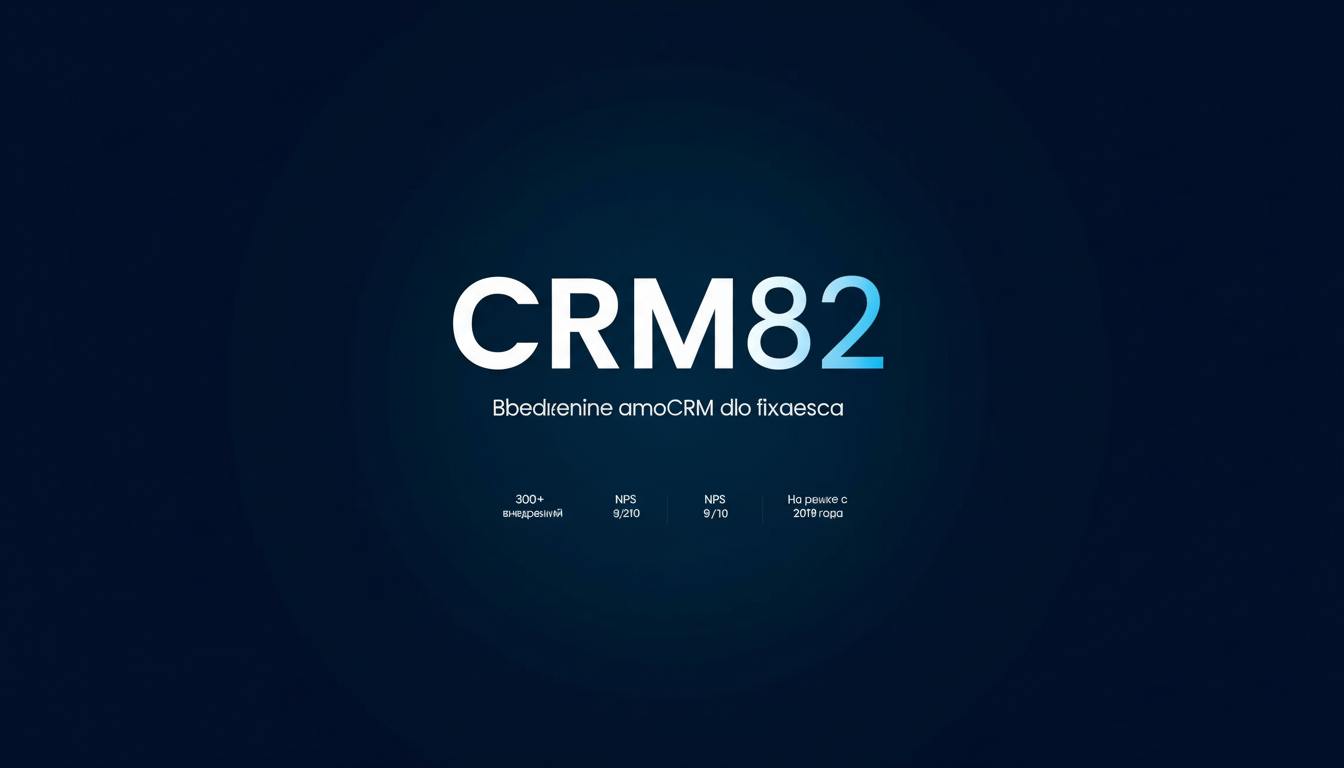
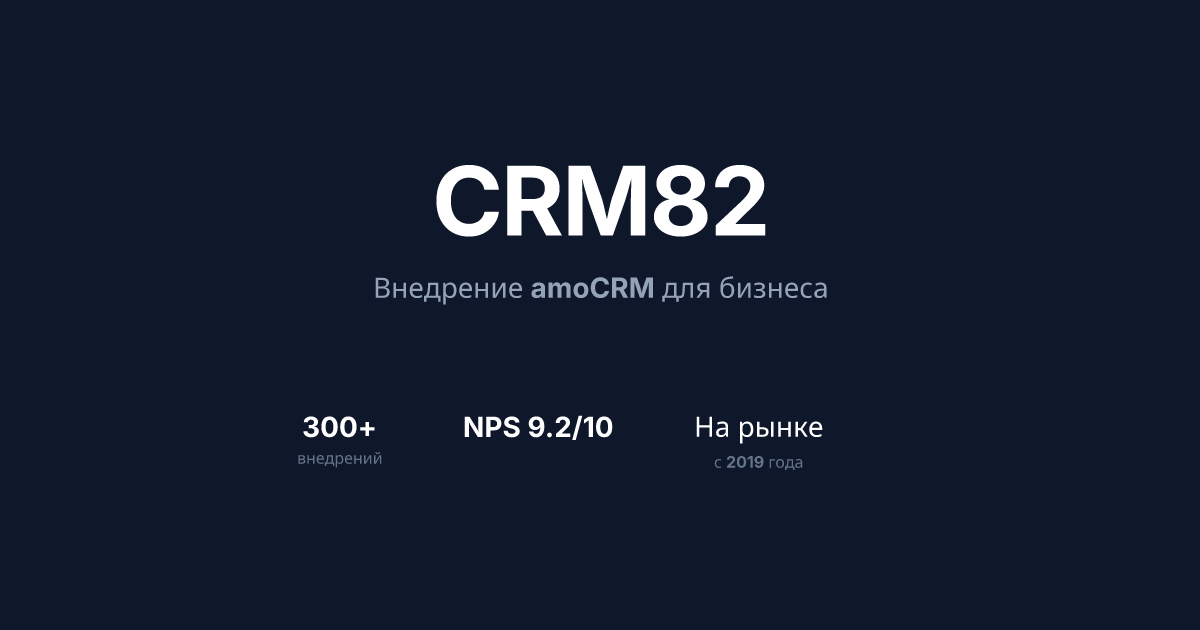
Changes

diff --git a/supabase/functions/og-image/index.ts b/supabase/functions/og-image/index.ts
@@ -1,0 +1,156 @@
+import { ImageResponse } from "https://deno.land/x/og_edge@0.0.6/mod.ts";
+
+const corsHeaders = {
+  'Access-Control-Allow-Origin': '*',
+  'Access-Control-Allow-Headers': 'authorization, x-client-info, apikey, content-type, x-supabase-client-platform, x-supabase-client-platform-version, x-supabase-client-runtime, x-supabase-client-runtime-version',
+};
+
+Deno.serve(async (req) => {
+  if (req.method === 'OPTIONS') {
+    return new Response(null, { headers: corsHeaders });
+  }
+
+  try {
+    // Fetch Inter font with Cyrillic support (two subsets: Latin + Cyrillic)
+    const [interBoldLatin, interBoldCyrillic] = await Promise.all([
+      fetch('https://cdn.jsdelivr.net/npm/@fontsource/inter/files/inter-latin-700-normal.woff').then(r => r.arrayBuffer()),
+      fetch('https://cdn.jsdelivr.net/npm/@fontsource/inter/files/inter-cyrillic-700-normal.woff').then(r => r.arrayBuffer()),
+    ]);
+
+    const imageResponse = new ImageResponse(
+      buildLayout(),
+      {
+        width: 1200,
+        height: 630,
+        fonts: [
+          { name: 'Inter', data: interBoldLatin, weight: 700, style: 'normal' as const },
+          { name: 'Inter', data: interBoldCyrillic, weight: 700, style: 'normal' as const },
+        ],
+      }
+    );
+
+    // Add cache + CORS headers
+    const headers = new Headers(imageResponse.headers);
+    headers.set('Cache-Control', 'public, max-age=604800, s-maxage=604800');
+    for (const [key, value] of Object.entries(corsHeaders)) {
+      headers.set(key, value);
+    }
+
+    return new Response(imageResponse.body, {
+      status: imageResponse.status,
+      headers,
+    });
+  } catch (error) {
+    return new Response(JSON.stringify({ error: error.message, stack: error.stack }), {
+      status: 500,
+      headers: { ...corsHeaders, 'Content-Type': 'application/json' },
+    });
+  }
+});
+
+function buildLayout() {
+  return {
+    type: 'div',
+    props: {
+      style: {
+        width: '100%',
+        height: '100%',
+        display: 'flex',
+        flexDirection: 'column',
+        alignItems: 'center',
+        justifyContent: 'center',
+        backgroundColor: '#0f172a',
+        fontFamily: 'Inter',
+        padding: '60px',
+      },
+      children: [
+        // CRM82 title
+        {
+          type: 'div',
+          props: {
+            style: {
+              fontSize: '96px',
+              fontWeight: 700,
+              color: 'white',
+              letterSpacing: '-2px',
+              lineHeight: 1,
+            },
+            children: 'CRM82',
+          },
+        },
+        // Subtitle
+        {
+          type: 'div',
+          props: {
+            style: {
+              fontSize: '28px',
+              fontWeight: 700,
+              color: '#94a3b8',
+              marginTop: '20px',
+            },
+            children: 'Внедрение amoCRM для бизнеса',
+          },
+        },
+        // Stats row
+        {
+          type: 'div',
+          props: {
+            style: {
+              display: 'flex',
+              gap: '80px',
+              marginTop: '100px',
+            },
+            children: [
+              statBlock('300+', 'внедрений'),
+              statBlock('NPS 9.2/10', ''),
+              statBlock('На рынке', 'с 2019 года'),
+            ],
+          },
+        },
+      ],
+    },
+  };
+}
+
+function statBlock(value: string, label: string) {
+  const children: Record<string, unknown>[] = [
+    {
+      type: 'div',
+      props: {
+        style: {
+          fontSize: '28px',
+          fontWeight: 700,
+          color: 'white',
+        },
+        children: value,
+      },
+    },
+  ];
+
+  if (label) {
+    children.push({
+      type: 'div',
+      props: {
+        style: {
+          fontSize: '16px',
+          fontWeight: 700,
+          color: '#64748b',
+          marginTop: '4px',
+        },
+        children: label,
+      },
+    });
+  }
+
+  return {
+    type: 'div',
+    props: {
+      style: {
+        display: 'flex',
+        flexDirection: 'column',
+        alignItems: 'center',
+      },
+      children,
+    },
+  };
+}
